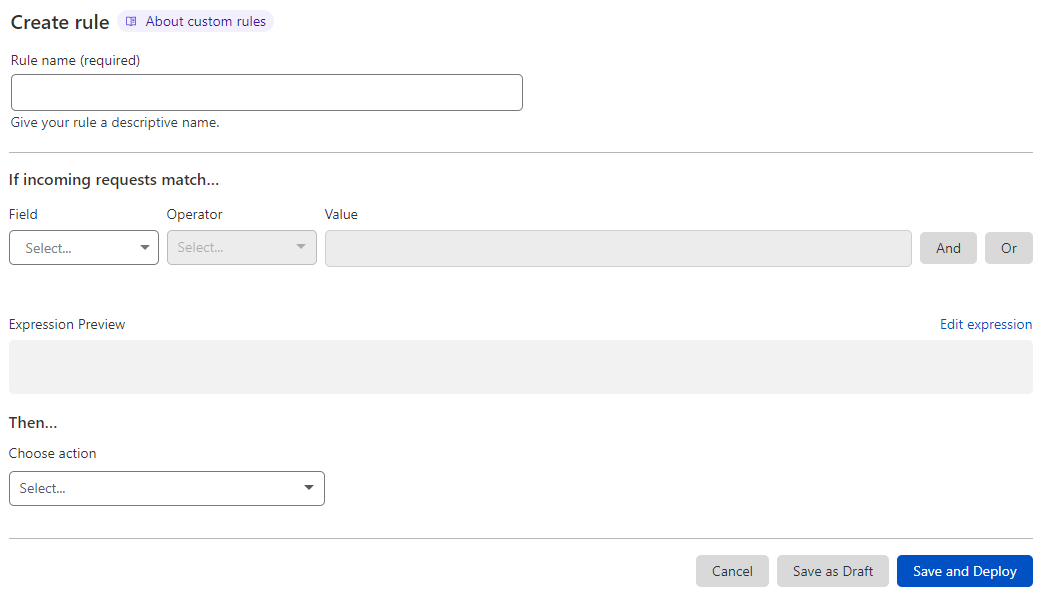
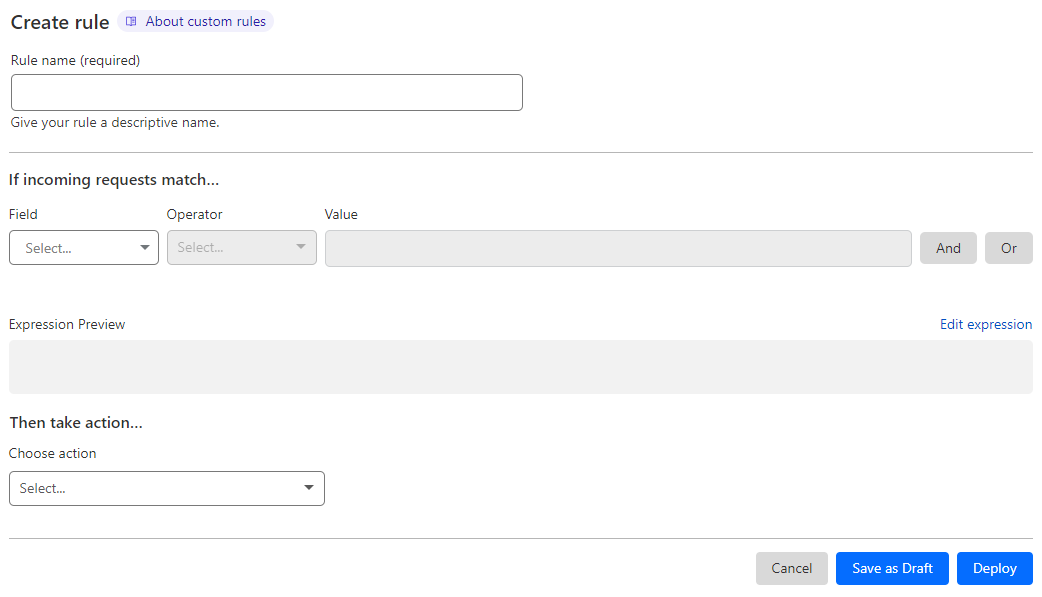
Update instructions and screenshots

Changed region(s): [[0.6449, 0.9045, 1.0, 0.995], [0.0, 0.6935, 0.1228, 0.7236]]

diff --git a/content/waf/custom-rules/create-dashboard.md b/content/waf/custom-rules/create-dashboard.md
@@ -26,7 +26,7 @@ To create a new custom rule:
 
     ![Custom rule creation page in the Cloudflare dashboard](/images/waf/custom-rules/firewall-custom-rule-create.png)
 
-6. Under **If incoming requests match...**, use the **Field** drop-down list to choose an HTTP property. For each request, the value of the property you choose for **Field** is compared to the value you specify for **Value** using the operator selected in **Operator**.
+6. Under **If incoming requests match**, use the **Field** drop-down list to choose an HTTP property. For each request, the value of the property you choose for **Field** is compared to the value you specify for **Value** using the operator selected in **Operator**.
 
 7. Select the rule action from the **Choose action** drop-down list. For example, selecting _Block_ tells Cloudflare to refuse requests that match the conditions you specified.
 
@@ -40,7 +40,7 @@ When you select the _Block_ action in a custom rule you can optionally define a 
 
 The custom response has three settings:
 
-* **Response type**: Choose a content type or the default WAF block response from the list. The available custom response types are the following:
+* **With response type**: Choose a content type or the default WAF block response from the list. The available custom response types are the following:
 
     | Dashboard value | API value |
     |---|---|
@@ -49,5 +49,5 @@ The custom response has three settings:
     | Custom JSON | `"application/json"` |
     | Custom XML | `"text/xml"` |
 
-* **Response code**: Choose an HTTP status code for the response, in the range 400-499. The default response code is 403.
+* **With response code**: Choose an HTTP status code for the response, in the range 400-499. The default response code is 403.
 * **Response body**: The body of the response. Configure a valid body according to the response type you selected.

diff --git a/content/waf/_partials/_custom-response-blocked-requests.md b/content/waf/_partials/_custom-response-blocked-requests.md
@@ -9,7 +9,7 @@ When you select the _Block_ action in a rule you can optionally define a custom 
 
 The custom response has three settings:
 
-* **Response type**: Choose a content type or the default block response from the list. The available custom response types are the following:
+* **With response type**: Choose a content type or the default block response from the list. The available custom response types are the following:
 
     | Dashboard value | API value |
     |---|---|
@@ -18,5 +18,5 @@ The custom response has three settings:
     | Custom JSON | `"application/json"` |
     | Custom XML | `"text/xml"` |
 
-* **Response code**: Choose an HTTP status code for the response, in the range 400-499. The default response code is 403.
+* **With response code**: Choose an HTTP status code for the response, in the range 400-499. The default response code is 403.
 * **Response body**: The body of the response. Configure a valid body according to the response type you selected.

diff --git a/content/waf/reference/migration-guides/firewall-rules-to-custom-rules.md b/content/waf/reference/migration-guides/firewall-rules-to-custom-rules.md
@@ -121,7 +121,7 @@ If you are using Terraform, the preferred way of configuring WAF custom rules is
 
 If you are currently using firewall rules, your rules will be displayed as WAF custom rules in the Cloudflare dashboard, available at **Security** > **WAF** > **Custom rules**.
 
-![The Custom rules tab, available in the Cloudflare dashboard under Security > WAF.](/images/waf/reference/custom-rules-tab.png)
+![The Custom rules tab, available in the Cloudflare dashboard under Security > WAF.](/images/waf/custom-rules/custom-rules-tab.png)
 
 Most customers will have access to the **Custom rules** tab instead of the **Firewall rules** tab in the Cloudflare dashboard, which will display the rules that Cloudflare automatically converted from existing firewall rules.
 
